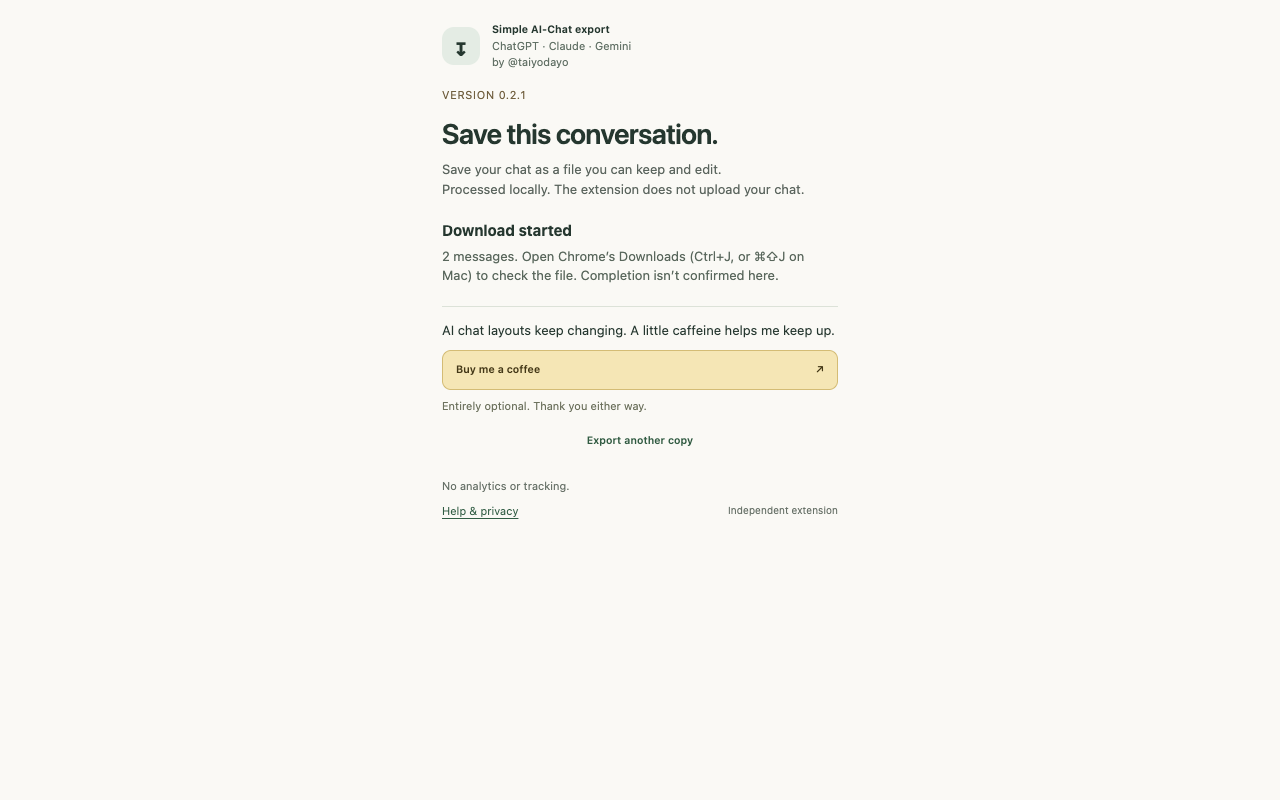
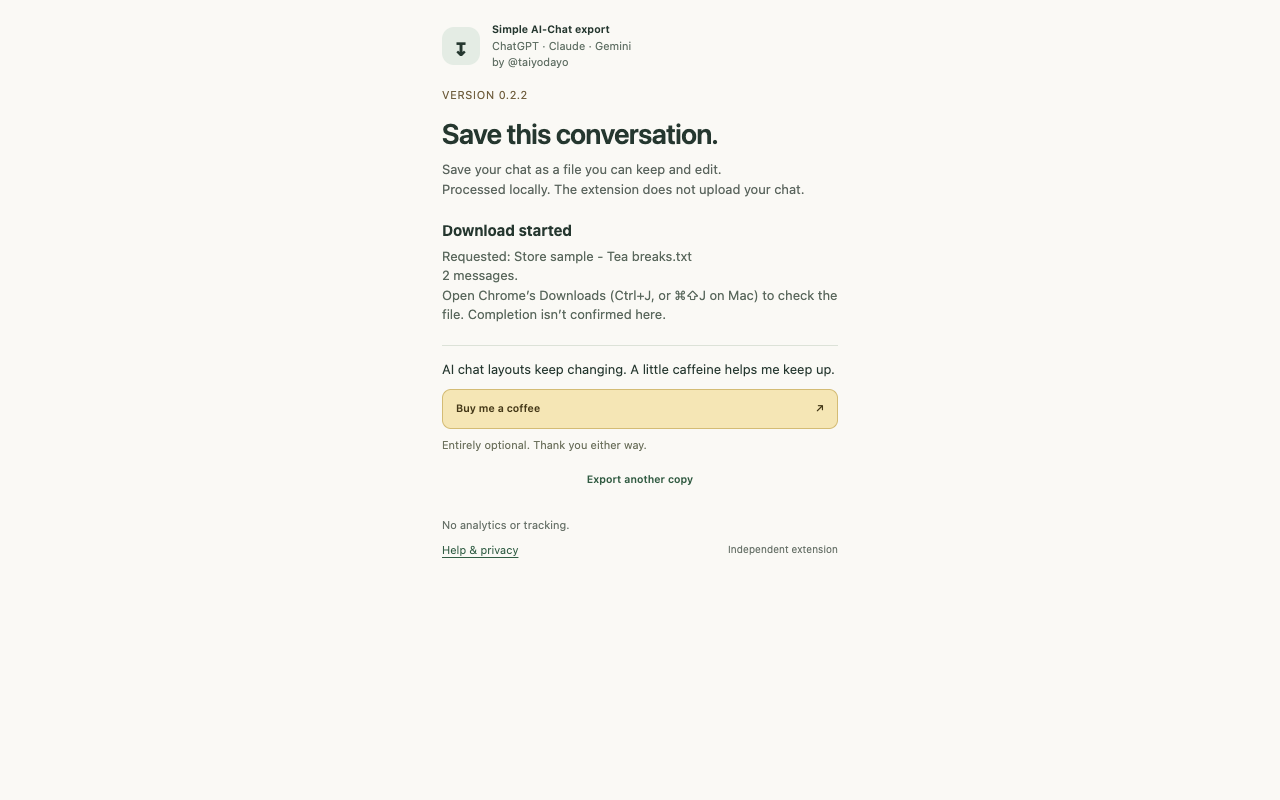
ui: show filenames and truthful export destinations (#20)
* ui: show honest export filenames and selected destinations

* store: refresh synthetic screenshots for current plain-text export flow

* test: model native handoff accurately in research permission retry

Changed region(s): [[0.3438, 0.3125, 0.6562, 0.5625], [0.3438, 0.5938, 0.5312, 0.7188], [0.5625, 0.625, 0.6562, 0.6562]]

diff --git a/tests/browser/destination.spec.js b/tests/browser/destination.spec.js
@@ -110,6 +110,9 @@ test("the folder selected in the UI receives the export and repeated saves keep 
     expect(result.content).toContain("日本語 ☕");
     expect(result.content.startsWith("Export metadata\n\n")).toBe(true);
     expect(result.name.endsWith(".txt")).toBe(true);
+    await expect(page.locator("#status-body")).toContainText(
+      `${result.name} in 日本語 Chat exports`,
+    );
     filenames.push(result.name);
     await page.getByRole("button", { name: "Export another copy" }).click();
     await expect(page.locator("#destination-name")).toHaveText(
@@ -144,6 +147,46 @@ test("a long folder name stays within a narrow window and supports keyboard sele
     ),
   ).toBe(true);
   await expect(page.locator("#choose-directory")).toBeFocused();
+});
+
+test("export result text wraps and cannot turn hostile names into markup", async ({
+  page,
+}) => {
+  await page.setViewportSize({ width: 320, height: 800 });
+  await page.goto("/extension/popup.html");
+  const requests = [];
+  page.on("request", (request) => requests.push(request.url()));
+  const name =
+    '<img src="https://invalid.example/result">' + "日本語".repeat(30);
+  await page.evaluate(async (name) => {
+    const { mount } = await import("/extension/popup.js");
+    const { fixture, identity } = await import("/tests/fixtures.js");
+    mount({
+      selectDirectory: async () => ({ kind: "directory", name }),
+      retrieve: async () => {
+        const data = fixture();
+        return { data, identity: identity(data) };
+      },
+      confirmUnchanged: async () => {},
+      save: async () => ({
+        status: "saved",
+        filename: "日本語".repeat(35) + ".txt",
+      }),
+    });
+  }, name);
+  await page.getByRole("button", { name: "Save location Downloads" }).click();
+  await page.getByRole("button", { name: /Export conversation/ }).click();
+  await expect(
+    page.getByRole("heading", { name: "Export saved." }),
+  ).toBeFocused();
+  await expect(page.locator("#status-body")).toContainText(name);
+  expect(await page.locator("main img").count()).toBe(0);
+  expect(requests.some((url) => url.includes("invalid.example"))).toBe(false);
+  expect(
+    await page.evaluate(
+      () => document.documentElement.scrollWidth <= innerWidth,
+    ),
+  ).toBe(true);
 });
 
 test("two same-origin windows serialize real folder saves before probing names", async ({

diff --git a/extension/popup.js b/extension/popup.js
@@ -227,9 +227,20 @@ export function mount(adapter) {
       );
       if (!["download-started", "saved"].includes(outcome?.status))
         throw new ExportError("save-interrupted");
+      const saved = outcome.status === "saved";
       status(
-        outcome.status === "saved" ? "Export saved." : "Download started",
-        `${result.metadata.messageCount} messages${result.omissions.length ? " · text-only copy" : ""}. ${outcome.status === "saved" ? "Ready to read or edit." : "Open Chrome’s Downloads (Ctrl+J, or ⌘⇧J on Mac) to check the file. Completion isn’t confirmed here."}`,
+        saved ? "Export saved." : "Download started",
+        [
+          saved
+            ? `${outcome.filename} in ${directoryHandle.name}`
+            : `Requested: ${outcome.filename}`,
+          `${result.metadata.messageCount} messages${result.omissions.length ? " · text-only copy" : ""}.`,
+          ...(saved
+            ? []
+            : [
+                "Open Chrome’s Downloads (Ctrl+J, or ⌘⇧J on Mac) to check the file. Completion isn’t confirmed here.",
+              ]),
+        ].join("\n"),
       );
       $("success").hidden = false;
       $("export-form").hidden = true;

diff --git a/tests/browser/journey.spec.js b/tests/browser/journey.spec.js
@@ -22,7 +22,8 @@ test("welcoming first use, format choice, success and a deliberate coffee click"
   await expect(
     page.getByRole("heading", { name: "Download started" }),
   ).toBeVisible();
-  await expect(page.getByText("2 messages. Open Chrome")).toBeVisible();
+  await expect(page.locator("#status-body")).toContainText("2 messages.");
+  await expect(page.locator("#status-body")).toContainText("Requested:");
   const coffee = page.getByRole("link", { name: "Buy me a coffee" });
   await expect(coffee).toHaveAttribute(
     "href",
@@ -94,7 +95,7 @@ test("long conversation count comes from the validated branch", async ({
 }) => {
   await page.getByLabel("Preview scenario").selectOption("long");
   await page.getByRole("button", { name: /Export conversation/ }).click();
-  await expect(page.getByText("2000 messages. Open Chrome")).toBeVisible();
+  await expect(page.locator("#status-body")).toContainText("2000 messages.");
 });
 test("success fits the export window and another copy restores the format choice", async ({
   page,

diff --git a/tests/browser/research.spec.js b/tests/browser/research.spec.js
@@ -106,7 +106,7 @@ test("a research permission refusal never saves, and a later approval retries fr
       confirmUnchanged: async () => {},
       save: async () => {
         window.researchTest.saves++;
-        return { status: "saved", filename: "synthetic.md" };
+        return { status: "download-started", filename: "synthetic.txt" };
       },
       requestResearchPermission: () => {
         window.researchTest.requests++;
@@ -135,7 +135,7 @@ test("a research permission refusal never saves, and a later approval retries fr
     .getByRole("button", { name: "Allow Deep Research and export" })
     .click();
   await expect(
-    page.getByRole("heading", { name: "Export saved." }),
+    page.getByRole("heading", { name: "Download started" }),
   ).toBeVisible();
   expect(await page.evaluate(() => window.researchTest)).toMatchObject({
     requests: 2,

diff --git a/tests/browser/extension.spec.js b/tests/browser/extension.spec.js
@@ -140,7 +140,11 @@ test("the extracted package loads with its CSP and saves readable TXT and Markdo
     await expect(
       page.getByRole("link", { name: "Buy me a coffee" }),
     ).toBeVisible();
-    await (await uiDownload).delete();
+    const downloaded = await uiDownload;
+    await expect(page.locator("#status-body")).toContainText(
+      `Requested: ${downloaded.suggestedFilename()}`,
+    );
+    await downloaded.delete();
     expect(errors).toEqual([]);
     await page.getByRole("link", { name: "Help & privacy" }).click();
     await expect(

diff --git a/extension/popup.css b/extension/popup.css
@@ -244,6 +244,8 @@ h2 {
   margin-top: 20px;
 }
 #feedback p {
+  white-space: pre-line;
+  overflow-wrap: anywhere;
   font-size: 13px;
   margin: 0;
   color: #59675c;

diff --git a/docs/VERIFICATION.md b/docs/VERIFICATION.md
@@ -1,5 +1,9 @@
 # Verification
 
+## Export result identity — 8 October 2026
+
+Issue #12 uses the existing save outcome to show the actual filename and selected folder after writer close. Native downloads show the requested filename and retain the unconfirmed-completion/Chrome Downloads guidance. Redundant generic success prose is removed; status text wraps safely without HTML insertion. Repeated real directory writes check the displayed collision-suffixed names against the actual files; the extracted-package native-download test compares the displayed requested name with the browser-observed download. No new permission, storage or polling is introduced.
+
 ## Literal export default — 8 October 2026
 
 Issue #11 makes Plain text the initial native radio choice; Markdown remains one click away with a short note that viewer settings control HTML and remote images. No sanitiser, renderer, stored preference or extra confirmation is added. The next extension version is 0.2.2; manifest, package and export metadata agree, and the extracted-package test checks that agreement. Existing provider/research/fidelity tests remain applicable to both formats. Original raw Markdown is still untrusted data for external viewers.
